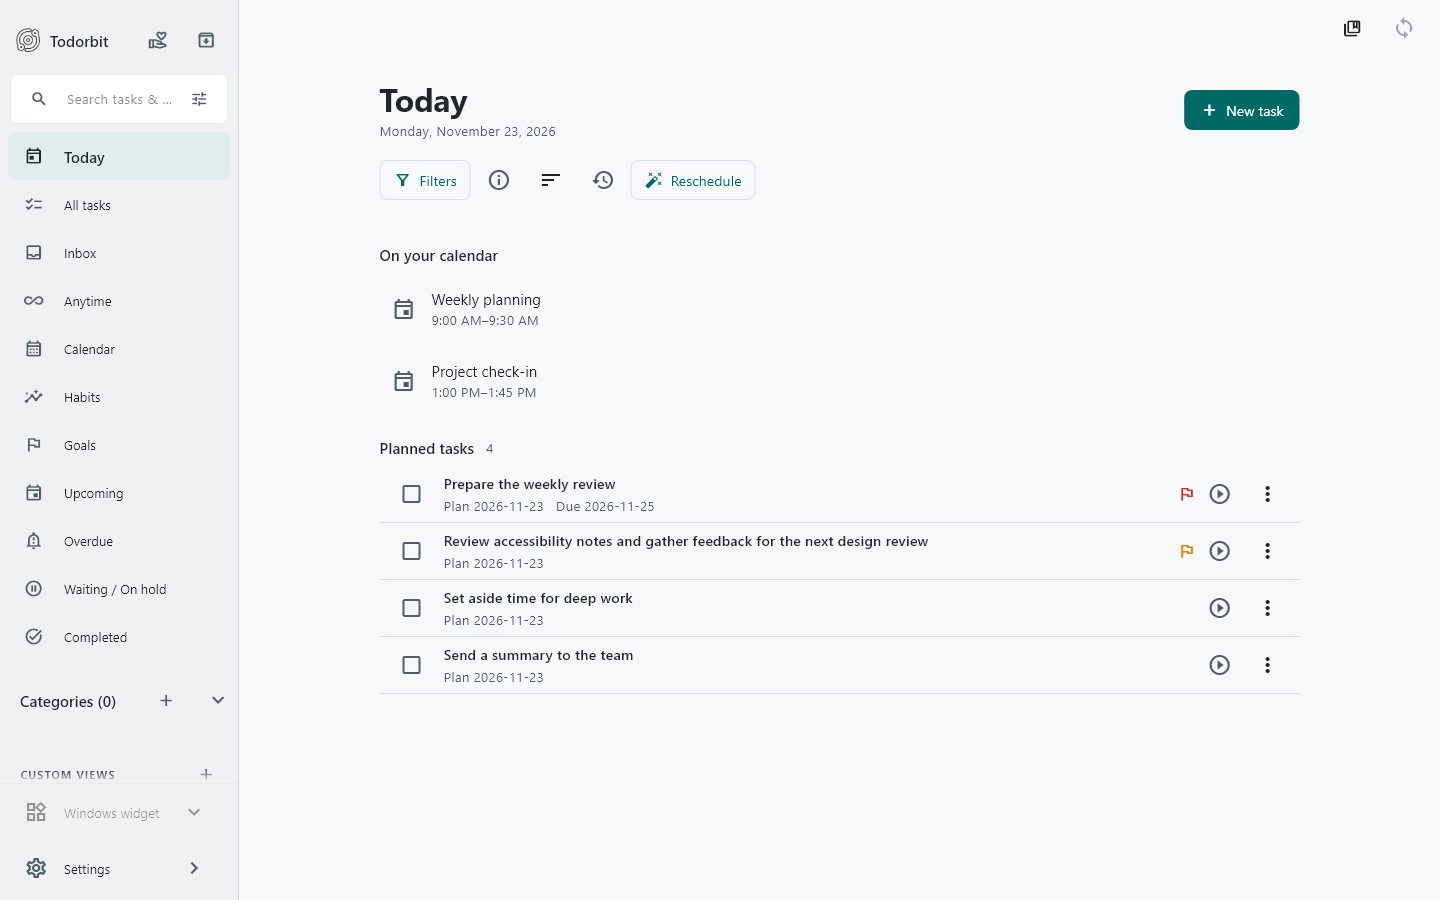
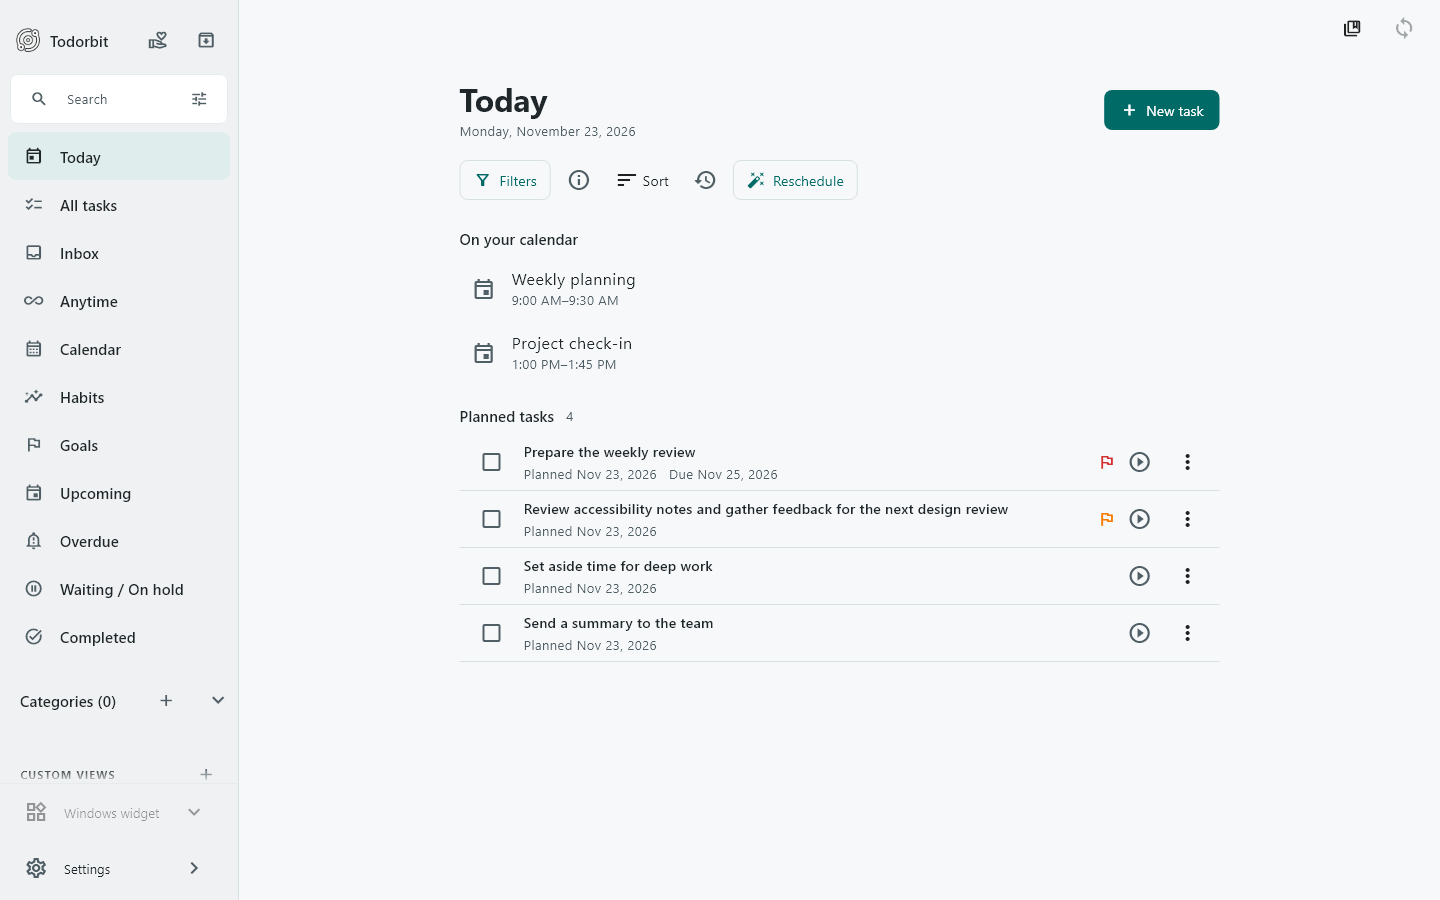
Record Batch 1 visual acceptance and design rules

diff --git a/docs/TEST_RUN_LEDGER.md b/docs/TEST_RUN_LEDGER.md
@@ -1,5 +1,36 @@
 # Persistent test run ledger
 
+## Batch 1 visual refinement and acceptance (2026-11-23)
+
+Baseline `23f31fe`. Verified source `586e3a3` on Windows using Flutter
+3.47.7 and Dart 3.13.5. Tests used disposable APPDATA and LOCALAPPDATA and
+synthetic records. Logs and the capture harness are in `.buildlog/ui-redesign/`.
+
+| Check | Result |
+| --- | --- |
+| `flutter test --no-pub --concurrency=2 --reporter expanded` on `mobile_workspace`, `task_editor_schedule_layout`, `task_editor_ui_polish`, `task_editor_ui_consistency`, `today_workspace_redesign`, `workspace_draft_safety` and the render harness | 59 regression tests and 11 render cases passed after compact navigation correction. `batch1-final-tests.log`. |
+| Same command on the three task editor suites and `today_workspace_redesign` plus the render harness | 10 tests and 11 render cases passed after the title input change. `batch1-title-tests.log`. |
+| First focused pass on `app_task_row`, `workspace_toolbar` and `focus_quick_start` | Passed on the task-row and Today toolbar changes. `batch1-tests.log`. Two editor checks in that run failed because the moved Edit recurrence section displaced controls outside the lazy list viewport. Create retains the new Repeat position, and the Edit group retained its place after Organization. The later passes include those editor checks. |
+| `flutter analyze --no-pub` on 13 changed Dart files, architecture tests, docs checks and `git diff --check` | No analyzer issues, 39 architecture checks passed, zero documentation errors and no whitespace errors. |
+
+Final offscreen Flutter captures are in
+`C:/Users/User/Documents/Codex/Todorbit-batch1-acceptance/`:
+
+- Windows Today: `windows-today-light.png` and `windows-today-narrow.png`.
+- Windows editor: `windows-create-light.png`, `windows-editor-dark.png`,
+  `windows-narrow-large-text.png` and `windows-narrow-dark-large-text.png`.
+- Android Today: `android-today-light.png`, `android-today-dark.png` and
+  `android-today-narrow-large-text.png`.
+- Android forms: `android-create-large-text.png` and
+  `android-edit-light-large-text.png`.
+
+The 800 dp Windows captures show both date controls and the reachable save
+action. The 320 dp Android capture confirms the title and toolbar fit at 150%
+text, with named navigation targets tested separately. The final Android Edit
+capture shows the title wrapping. Batch 1 is accepted as the visual reference
+for Batch 2. Native device, IME, assistive input and release checks remain
+pending under [Deferred verification](DEFERRED_VERIFICATION.md).
+
 ## Todorbit UI redesign pilot (2026-11-23)
 
 Windows 11, Flutter 3.47.7 (`abaf9c5237`), Dart 3.13.5 and the repository

diff --git a/docs/UI_DESIGN_SYSTEM.md b/docs/UI_DESIGN_SYSTEM.md
@@ -5,9 +5,11 @@
 Todorbit uses neutral surfaces and a restrained teal accent. The date anchors
 Today, New task is the primary action, and a divided list gives task titles
 room. Calendar commitments stay visible alongside the work they affect.
-Windows keeps navigation and a resizable editor. Android keeps its own
-navigation and full-screen editor. Both use the same section typography,
-surface roles and row rhythm.
+Windows shows navigation and a resizable editor when they fit beside the
+workspace. Below that breakpoint, an open task occupies the workspace and
+keeps its existing editor instance. Closing it reveals navigation again.
+Android keeps its own navigation and full-screen editor. Both use shared
+section typography, surface roles and row rhythm.
 
 Beta 26 supplied shared form controls and task rows. Today repeated task
 counts and each row had a card border. Desktop showed fixed appointments by
@@ -48,6 +50,28 @@ Todorbit retains its own schedule, timer and navigation contracts.
   [NN/g](https://www.nngroup.com/articles/visual-hierarchy-ux-definition/) ·
   [Flutter](https://docs.flutter.dev/ui/adaptive-responsive/best-practices) ·
   [WCAG](https://www.w3.org/TR/WCAG22/)
+
+## Batch 1 presentation rules
+
+- Limit desktop Today to an 800 dp content column. Keep calendar commitments
+  and planned tasks in separate groups. Only reserve space for schedule
+  shortcuts when an actionable summary exists.
+- Use localized, abbreviated dates with the year. Task rows and details use
+  Planned and Due. Forms label the corresponding inputs Scheduled day and
+  Deadline. Keep their clear actions distinct. Place Repeat beside the date
+  controls during Create. Edit groups recurring occurrence actions together.
+  Let the title field wrap while preserving a single-line title value.
+- In Edit, identify resources and checklist or subtask actions that save
+  immediately. Keep draft fields under the form's Save changes action and
+  dedicated saves beside their own fields.
+- Allow Android task titles up to four lines. The details view and actions
+  sheet show the complete title. Keep text labels for priority and identify
+  the task timer with the action it performs. When phone width and text scale
+  make navigation captions wrap, keep full destination names in semantics and
+  tooltips. Give the app-bar title its own line and keep actions reachable.
+- Use text for frequently used actions where it fits. Icon actions need an
+  accessible name. Keep a hover tooltip for truncated sidebar destinations
+  and retain the full name for assistive technology.
 
 ## Customization and compatibility
 

diff --git a/.agents/skills/todorbit-regression/SKILL.md b/.agents/skills/todorbit-regression/SKILL.md
@@ -7,7 +7,7 @@ description: Select and run risk-based Todorbit regression checks for Flutter UI
 
 Identify changed boundaries with `git diff` and a targeted `rg` search. Reuse nearby tests and the installed Dart/Flutter MCP analyzer, LSP, DTD, and runtime diagnostics when applicable. Run the smallest relevant test set while editing, then widen only for shared behavior or an unresolved failure. Do not claim a test covers a physical Windows interaction it did not perform.
 
-For redesigns, apply the [design system rollout checks](../../../docs/UI_DESIGN_SYSTEM.md#rollout-and-checks). When a pane adapts to a resize, exercise a live edit draft across the breakpoint. When a palette or preference changes, check applicable contrast, existing data compatibility and a save/reopen round trip.
+For redesigns, apply the [design system rollout checks](../../../docs/UI_DESIGN_SYSTEM.md#rollout-and-checks). When a pane adapts to a resize, exercise a live edit draft across the breakpoint at regular and enlarged text. Verify the active field and save action remain reachable in the narrow layout. When a palette or preference changes, check applicable contrast, existing data compatibility and a save/reopen round trip.
 
 For SQLite, recurrence, and profile changes, include focused migration/round-trip or isolated in-memory/disposable-profile tests as appropriate. Preserve production data; never open or migrate the personal profile to test a change. For native IPC or widget rendering/input changes, build the native Release target, run `TodorbitWidget.exe --self-test`, then follow the relevant manual checks in `docs/windows-widget.md` on an isolated profile. For update/installer changes, use `docs/SOFTWARE_UPDATES.md` and `docs/ACCEPTANCE.md`; verify package identity, helper failure paths, and disposable upgrade behavior before release claims.
 

diff --git a/AGENTS.md b/AGENTS.md
@@ -14,6 +14,7 @@
 - `AppController` coordinates shared state; profile JSON stores own device/preferences data. The native companion has a deliberately narrow database writer and never migrates schemas. See [architecture](docs/ARCHITECTURE.md).
 - Follow existing Dart/Flutter conventions. Reuse nearby components, domain calculations, services and theme tokens; prefer small changes over parallel implementations.
 - Follow the [Todorbit design system](docs/UI_DESIGN_SYSTEM.md) and Microsoft Fluent guidance. Identify the user journey and existing tokens, controls, and Windows/Android entry points before changing presentation. Keep visible controls functional and check keyboard access, larger text, both themes, and real Flutter rendering where practical.
+- Use the [Batch 1 presentation rules](docs/UI_DESIGN_SYSTEM.md#batch-1-presentation-rules) when changing task dates, editor layout, or task action labels.
 - Theme JSON is validated data only. Keep light/dark and native widget tokens synchronized; imported metadata never changes the official contributor registry.
 - Keep Windows runner, native widget and packaged behavior compatible. `experiments/widget-shell-probe/` is production companion source despite its name.
 

diff --git a/docs/PROGRESS.md b/docs/PROGRESS.md
@@ -1,5 +1,19 @@
 # Progress
 
+## Batch 1 visual refinement and acceptance (2026-11-23)
+
+The Todorbit redesign branch now uses Batch 1 as the visual reference for
+future task lists. Windows keeps a live draft when the editor expands to
+the full workspace. Android gives the app-bar title room at 150% text and
+retains named navigation targets. Task dates use the same localized style
+and preserve the distinction between scheduled days and deadlines.
+
+[Design rules](UI_DESIGN_SYSTEM.md#batch-1-presentation-rules) ·
+[Verification and capture paths](TEST_RUN_LEDGER.md#batch-1-visual-refinement-and-acceptance-2026-11-23)
+
+Batch 2 remains pending. Physical devices, native assistive input and
+release acceptance remain tracked in [Deferred verification](DEFERRED_VERIFICATION.md).
+
 ## Todorbit UI redesign pilot (2026-11-23)
 
 `feature/todorbit-ui-redesign-2` branches from the Beta 26 manual-download

diff --git a/.agents/skills/ultimate-ui-ux/references/design-standards.md b/.agents/skills/ultimate-ui-ux/references/design-standards.md
@@ -55,7 +55,9 @@ Todorbit: `app_theme.dart` owns semantic text and palette-derived surfaces;
 `SettingsSection`, `SettingsHelperText`, `StatusNotice`, anchored selectors and dialog
 action bars already exist. In forms and editors, provide in-place field validation
 via `errorText` on the input control rather than relying exclusively on disconnected
-SnackBars. Do not replace the lavender identity or overwrite saved custom palettes.
+SnackBars. Preserve Todorbit's neutral/teal defaults and users' saved palettes.
+Use the [Batch 1 presentation rules](../../../../docs/UI_DESIGN_SYSTEM.md#batch-1-presentation-rules)
+for task dates, save timing, truncation and adaptive editor layout.
 Native widget mappings are separate consumers of the same palette, not proof that
 Flutter styling propagates there.
 

diff --git a/docs/DEFERRED_VERIFICATION.md b/docs/DEFERRED_VERIFICATION.md
@@ -2,6 +2,9 @@
 
 ## Todorbit UI redesign pilot (2026-11-23)
 
+Batch 1 visual refinement is recorded for source `586e3a3` in the
+[Batch 1 receipt](TEST_RUN_LEDGER.md#batch-1-visual-refinement-and-acceptance-2026-11-23).
+
 Source `bb37558`. The [pilot receipt](TEST_RUN_LEDGER.md#todorbit-ui-redesign-pilot-2026-11-23)
 covers targeted host checks and offscreen Flutter rendering. Native acceptance
 remains pending for Windows mouse, keyboard and assistive input at real DPI,

diff --git a/CHANGELOG.md b/CHANGELOG.md
@@ -2,6 +2,10 @@
 
 ## Unreleased
 
+- Improved Today and task editing at large text sizes. Narrow Windows editors
+  use the workspace width, task dates use localized labels, and Android
+  task rows show more of long titles.
+
 - Updated Todorbit’s default light and dark appearance, with a clearer Today
   workspace, fixed calendar commitments and shared task rows.
 - Windows task editors can be resized. Appearance shows contrast warnings and
